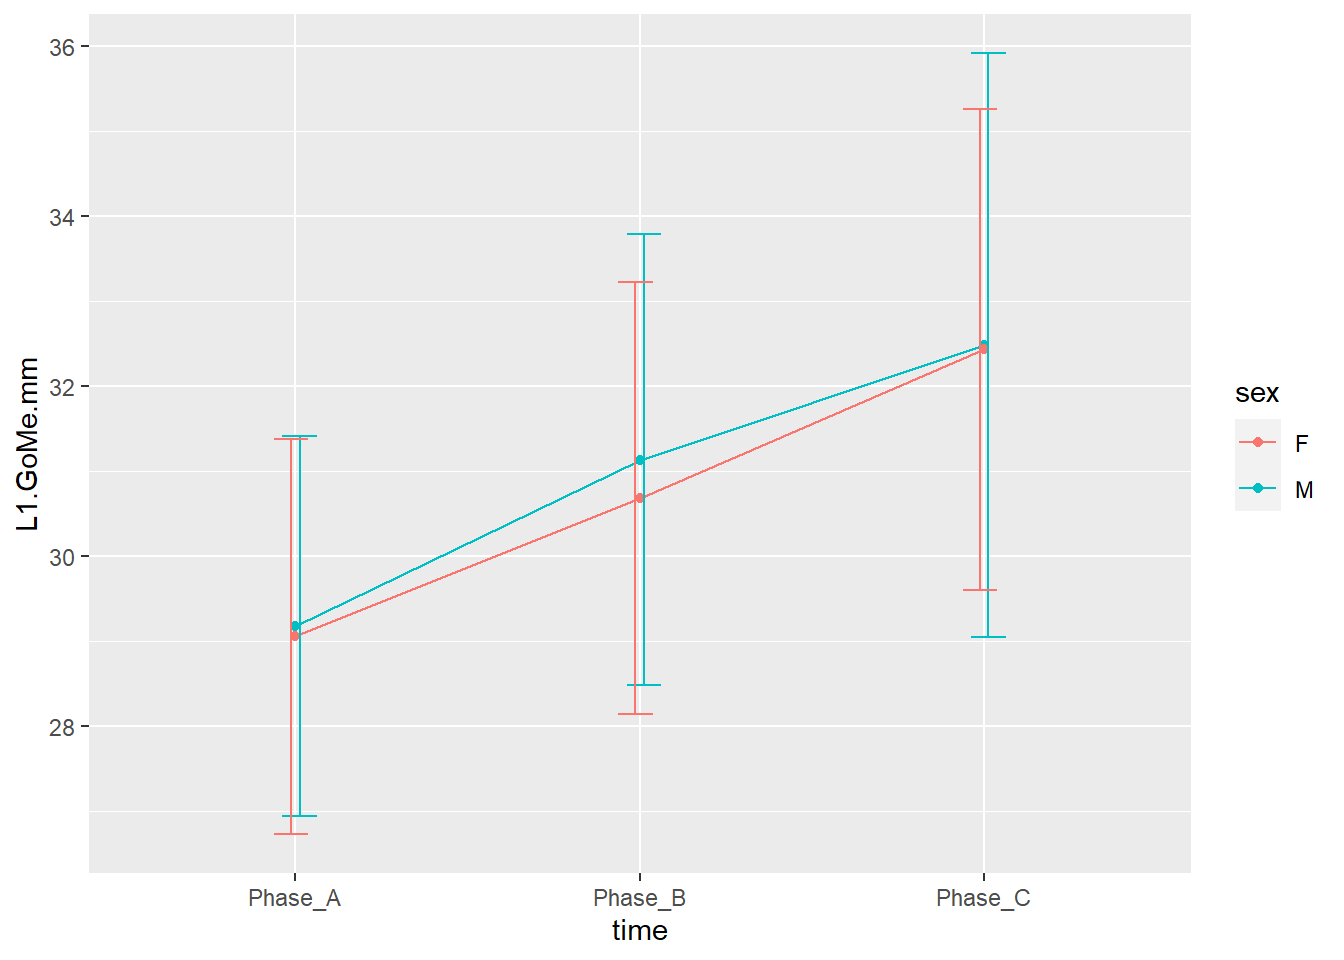
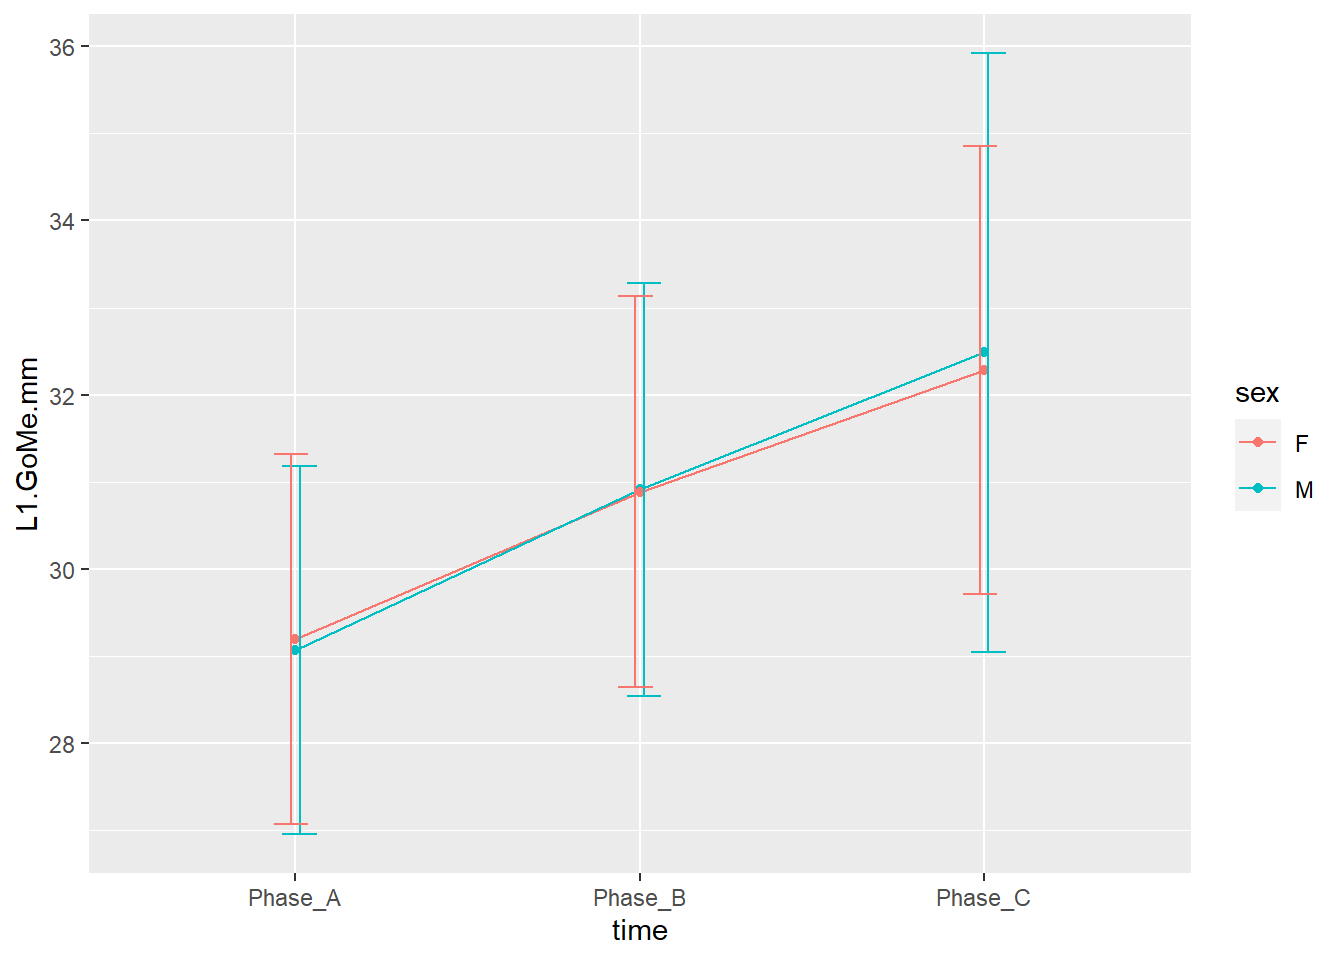
3/7/2023

diff --git a/docs/2022_Mar2_Marinho.html b/docs/2022_Mar2_Marinho.html
@@ -402,7 +402,7 @@ aria-hidden="true"></span> </a>
 <div class="tab-content">
 <div id="summary" class="tab-pane fade in active">
 <p>
-<strong>Last updated:</strong> 2023-03-06
+<strong>Last updated:</strong> 2023-03-07
 </p>
 <p>
 <strong>Checks:</strong> <span
@@ -536,15 +536,15 @@ project makes it easier to run your code on other machines.</p>
 <div class="panel panel-default">
 <div class="panel-heading">
 <p class="panel-title">
-<a data-toggle="collapse" data-parent="#workflowr-checks" href="#strongRepositoryversionstrongahrefhttpsgithubcomhan16Collaborationstree8f76edfc461100295ed3ae5fdbf2aae8623ccb9ctargetblank8f76edfa">
+<a data-toggle="collapse" data-parent="#workflowr-checks" href="#strongRepositoryversionstrongahrefhttpsgithubcomhan16Collaborationstreeb600d0c4f506cc15b67c5060e006133ad6142da5targetblankb600d0ca">
 <span class="glyphicon glyphicon-ok text-success"
 aria-hidden="true"></span> <strong>Repository version:</strong>
-<a href="https://github.com/han16/Collaborations/tree/8f76edfc461100295ed3ae5fdbf2aae8623ccb9c" target="_blank">8f76edf</a>
+<a href="https://github.com/han16/Collaborations/tree/b600d0c4f506cc15b67c5060e006133ad6142da5" target="_blank">b600d0c</a>
 </a>
 </p>
 </div>
 <div
[2 lines of base64/hex data omitted]
 class="panel-collapse collapse">
 <div class="panel-body">
 <p>
@@ -554,7 +554,7 @@ reproducibility.
 </p>
 <p>
 The results in this page were generated with repository version
-<a href="https://github.com/han16/Collaborations/tree/8f76edfc461100295ed3ae5fdbf2aae8623ccb9c" target="_blank">8f76edf</a>.
+<a href="https://github.com/han16/Collaborations/tree/b600d0c4f506cc15b67c5060e006133ad6142da5" target="_blank">b600d0c</a>.
 See the <em>Past versions</em> tab to see a history of the changes made
 to the R Markdown and HTML files.
 </p>
@@ -618,6 +618,40 @@ Message
 </tr>
 </thead>
 <tbody>
+<tr>
+<td>
+Rmd
+</td>
+<td>
+<a href="https://github.com/han16/Collaborations/blob/b600d0c4f506cc15b67c5060e006133ad6142da5/analysis/2022_Mar2_Marinho.Rmd" target="_blank">b600d0c</a>
+</td>
+<td>
+Han
+</td>
+<td>
+2023-03-06
+</td>
+<td>
+3/6/2023
+</td>
+</tr>
+<tr>
+<td>
+html
+</td>
+<td>
+<a href="https://rawcdn.githack.com/han16/Collaborations/b600d0c4f506cc15b67c5060e006133ad6142da5/docs/2022_Mar2_Marinho.html" target="_blank">b600d0c</a>
+</td>
+<td>
+Han
+</td>
+<td>
+2023-03-06
+</td>
+<td>
+3/6/2023
+</td>
+</tr>
 <tr>
 <td>
 Rmd
@@ -713,6 +747,9 @@ Han
 <div id="summary-statistics" class="section level2">
 <h2>Summary statistics</h2>
 <p><img src="figure/2022_Mar2_Marinho.Rmd/unnamed-chunk-3-1.png" width="672" style="display: block; margin: auto;" /><img src="figure/2022_Mar2_Marinho.Rmd/unnamed-chunk-3-2.png" width="672" style="display: block; margin: auto;" /><img src="figure/2022_Mar2_Marinho.Rmd/unnamed-chunk-3-3.png" width="672" style="display: block; margin: auto;" /><img src="figure/2022_Mar2_Marinho.Rmd/unnamed-chunk-3-4.png" width="672" style="display: block; margin: auto;" /></p>
+<ul>
+<li>in total there are 96 individuals</li>
+</ul>
 </div>
 <div id="discretize-the-age" class="section level2">
 <h2>discretize the age</h2>
@@ -741,7 +778,11 @@ ggplot(data_with_age_group %&gt;% count(age_group) %&gt;%mutate(prop=n/nrow(data
 <h4>time plots</h4>
 <p><img src="figure/2022_Mar2_Marinho.Rmd/unnamed-chunk-6-1.png" width="672" style="display: block; margin: auto;" /></p>
 <div class="datatables html-widget html-fill-item-overflow-hidden html-fill-item" id="htmlwidget-9eceb20dc2a931752ae4" style="width:100%;height:auto;"></div>
-<script type="application/json" data-for="htmlwidget-9eceb20dc2a931752ae4">{"x":{"filter":"none","vertical":false,"extensions":["Buttons"],"caption":"<caption>L1.GoMe.mm<\/caption>","data":[["1","2","3","4","5","6"],["Phase_A","Phase_A","Phase_B","Phase_B","Phase_C","Phase_C"],["M","F","M","F","M","F"],[29.1731,29.0519,31.1319,30.6811,32.4857,32.4333],[2.2397,2.3304,2.6559,2.54,3.4356,2.8319]],"container":"<table class=\"display\">\n  <thead>\n    <tr>\n      <th> <\/th>\n      <th>time<\/th>\n      <th>sex<\/th>\n      <th>mean<\/th>\n      <th>sd<\/th>\n    <\/tr>\n  <\/thead>\n<\/table>","options":{"dom":"Blfrtip","buttons":["copy","csv","excel","pdf","print"],"lengthMenu":[[10,25,50,-1],["10","25","50","All"]],"columnDefs":[{"className":"dt-right","targets":[3,4]},{"orderable":false,"targets":0}],"order":[],"autoWidth":false,"orderClasses":false}},"evals":[],"jsHooks":[]}</script>
+<script type="application/json" data-for="htmlwidget-9eceb20dc2a931752ae4">{"x":{"filter":"none","vertical":false,"extensions":["Buttons"],"caption":"<caption>L1.GoMe.mm<\/caption>","data":[["1","2","3","4","5","6"],["Phase_A","Phase_A","Phase_B","Phase_B","Phase_C","Phase_C"],["M","F","M","F","M","F"],[29.0632,29.1923,30.9126,30.8851,32.4857,32.287],[2.1123,2.1226,2.3704,2.2427,3.4356,2.5726]],"container":"<table class=\"display\">\n  <thead>\n    <tr>\n      <th> <\/th>\n      <th>time<\/th>\n      <th>sex<\/th>\n      <th>mean<\/th>\n      <th>sd<\/th>\n    <\/tr>\n  <\/thead>\n<\/table>","options":{"dom":"Blfrtip","buttons":["copy","csv","excel","pdf","print"],"lengthMenu":[[10,25,50,-1],["10","25","50","All"]],"columnDefs":[{"className":"dt-right","targets":[3,4]},{"orderable":false,"targets":0}],"order":[],"autoWidth":false,"orderClasses":false}},"evals":[],"jsHooks":[]}</script>
+<ul>
+<li>in total, 57 individuals have complete data across phase A, B,
+C</li>
+</ul>
 </div>
 <div id="response-profile" class="section level4">
 <h4>response profile</h4>
@@ -752,10 +793,13 @@ ggplot(data_with_age_group %&gt;% count(age_group) %&gt;%mutate(prop=n/nrow(data
 Gender          1     0.171  0.6795
 time            1   279.721  &lt;.0001
 Gender:time     1     0.636  0.4264</code></pre>
+</div>
+</div>
+<div id="l6.gome.mm" class="section level3">
+<h3>L6.GoMe.mm</h3>
 <p><img src="figure/2022_Mar2_Marinho.Rmd/unnamed-chunk-8-1.png" width="672" style="display: block; margin: auto;" /></p>
 <div class="datatables html-widget html-fill-item-overflow-hidden html-fill-item" id="htmlwidget-f30d7598595affc4f25a" style="width:100%;height:auto;"></div>
-<script type="application/json" data-for="htmlwidget-f30d7598595affc4f25a">{"x":{"filter":"none","vertical":false,"extensions":["Buttons"],"caption":"<caption>L6.GoMe.mm<\/caption>","data":[["1","2","3","4","5","6"],["Phase_A","Phase_A","Phase_B","Phase_B","Phase_C","Phase_C"],["M","F","M","F","M","F"],[21.3745,21.6195,22.8474,22.557,24.2646,24.4717],[1.672,1.6419,2.1856,1.8871,2.6959,2.0486]],"container":"<table class=\"display\">\n  <thead>\n    <tr>\n      <th> <\/th>\n      <th>time<\/th>\n      <th>sex<\/th>\n      <th>mean<\/th>\n      <th>sd<\/th>\n    <\/tr>\n  <\/thead>\n<\/table>","options":{"dom":"Blfrtip","buttons":["copy","csv","excel","pdf","print"],"lengthMenu":[[10,25,50,-1],["10","25","50","All"]],"columnDefs":[{"className":"dt-right","targets":[3,4]},{"orderable":false,"targets":0}],"order":[],"autoWidth":false,"orderClasses":false}},"evals":[],"jsHooks":[]}</script>
-</div>
+<script type="application/json" data-for="htmlwidget-f30d7598595affc4f25a">{"x":{"filter":"none","vertical":false,"extensions":["Buttons"],"caption":"<caption>L6.GoMe.mm<\/caption>","data":[["1","2","3","4","5","6"],["Phase_A","Phase_A","Phase_B","Phase_B","Phase_C","Phase_C"],["M","F","M","F","M","F"],[21.3471,21.6592,22.6466,22.8372,24.2646,24.4783],[1.6295,1.5575,1.8772,1.7952,2.6959,2.0753]],"container":"<table class=\"display\">\n  <thead>\n    <tr>\n      <th> <\/th>\n      <th>time<\/th>\n      <th>sex<\/th>\n      <th>mean<\/th>\n      <th>sd<\/th>\n    <\/tr>\n  <\/thead>\n<\/table>","options":{"dom":"Blfrtip","buttons":["copy","csv","excel","pdf","print"],"lengthMenu":[[10,25,50,-1],["10","25","50","All"]],"columnDefs":[{"className":"dt-right","targets":[3,4]},{"orderable":false,"targets":0}],"order":[],"autoWidth":false,"orderClasses":false}},"evals":[],"jsHooks":[]}</script>
 <div id="response-profile-1" class="section level4">
 <h4>response profile</h4>
 <p><img src="figure/2022_Mar2_Marinho.Rmd/unnamed-chunk-9-1.png" width="672" style="display: block; margin: auto;" /></p>
@@ -765,6 +809,38 @@ Gender:time     1     0.636  0.4264</code></pre>
 Gender          1     0.804  0.3712
 time            1   326.922  &lt;.0001
 Gender:time     1     0.302  0.5835</code></pre>
+</div>
+</div>
+<div id="u6.sn7.mm" class="section level3">
+<h3>U6.SN7.mm</h3>
+<p><img src="figure/2022_Mar2_Marinho.Rmd/unnamed-chunk-10-1.png" width="672" style="display: block; margin: auto;" /></p>
+<div class="datatables html-widget html-fill-item-overflow-hidden html-fill-item" id="htmlwidget-b85bf888dc62471906a9" style="width:100%;height:auto;"></div>
+<script type="application/json" data-for="htmlwidget-b85bf888dc62471906a9">{"x":{"filter":"none","vertical":false,"extensions":["Buttons"],"caption":"<caption>U6.SN7.mm<\/caption>","data":[["1","2","3","4","5","6"],["Phase_A","Phase_A","Phase_B","Phase_B","Phase_C","Phase_C"],["M","F","M","F","M","F"],[46.7175,47.5153,51.3647,52.044,55.5301,56.5378],[2.3373,2.7969,2.8237,2.8244,3.7344,3.4496]],"container":"<table class=\"display\">\n  <thead>\n    <tr>\n      <th> <\/th>\n      <th>time<\/th>\n      <th>sex<\/th>\n      <th>mean<\/th>\n      <th>sd<\/th>\n    <\/tr>\n  <\/thead>\n<\/table>","options":{"dom":"Blfrtip","buttons":["copy","csv","excel","pdf","print"],"lengthMenu":[[10,25,50,-1],["10","25","50","All"]],"columnDefs":[{"className":"dt-right","targets":[3,4]},{"orderable":false,"targets":0}],"order":[],"autoWidth":false,"orderClasses":false}},"evals":[],"jsHooks":[]}</script>
+<div id="response-profile-2" class="section level4">
+<h4>response profile</h4>
+<p><img src="figure/2022_Mar2_Marinho.Rmd/unnamed-chunk-11-1.png" width="672" style="display: block; margin: auto;" /></p>
+<pre><code>Denom. DF: 167 
+            numDF   F-value p-value
+(Intercept)     1 18860.578  &lt;.0001
+Gender          1     1.246  0.2660
+time            1  1137.436  &lt;.0001
+Gender:time     1     0.000  0.9822</code></pre>
+</div>
+</div>
+<div id="u1.sn7.mm" class="section level3">
+<h3>U1.SN7.mm</h3>
+<p><img src="figure/2022_Mar2_Marinho.Rmd/unnamed-chunk-12-1.png" width="672" style="display: block; margin: auto;" /></p>
+<div class="datatables html-widget html-fill-item-overflow-hidden html-fill-item" id="htmlwidget-88fdd2a34d502a66744b" style="width:100%;height:auto;"></div>
+<script type="application/json" data-for="htmlwidget-88fdd2a34d502a66744b">{"x":{"filter":"none","vertical":false,"extensions":["Buttons"],"caption":"<caption>U1.SN7.mm<\/caption>","data":[["1","2","3","4","5","6"],["Phase_A","Phase_A","Phase_B","Phase_B","Phase_C","Phase_C"],["M","F","M","F","M","F"],[53.5086,54.3483,57.923,58.7098,60.9427,62.162],[2.8564,3.3562,3.6363,3.4829,4.1201,4.0067]],"container":"<table class=\"display\">\n  <thead>\n    <tr>\n      <th> <\/th>\n      <th>time<\/th>\n      <th>sex<\/th>\n      <th>mean<\/th>\n      <th>sd<\/th>\n    <\/tr>\n  <\/thead>\n<\/table>","options":{"dom":"Blfrtip","buttons":["copy","csv","excel","pdf","print"],"lengthMenu":[[10,25,50,-1],["10","25","50","All"]],"columnDefs":[{"className":"dt-right","targets":[3,4]},{"orderable":false,"targets":0}],"order":[],"autoWidth":false,"orderClasses":false}},"evals":[],"jsHooks":[]}</script>
+<div id="response-profile-3" class="section level4">
+<h4>response profile</h4>
+<p><img src="figure/2022_Mar2_Marinho.Rmd/unnamed-chunk-13-1.png" width="672" style="display: block; margin: auto;" /></p>
+<pre><code>Denom. DF: 167 
+            numDF   F-value p-value
+(Intercept)     1 16550.425  &lt;.0001
+Gender          1     0.870  0.3522
+time            1   729.767  &lt;.0001
+Gender:time     1     0.264  0.6081</code></pre>
 </div>
 </div>
 </div>
